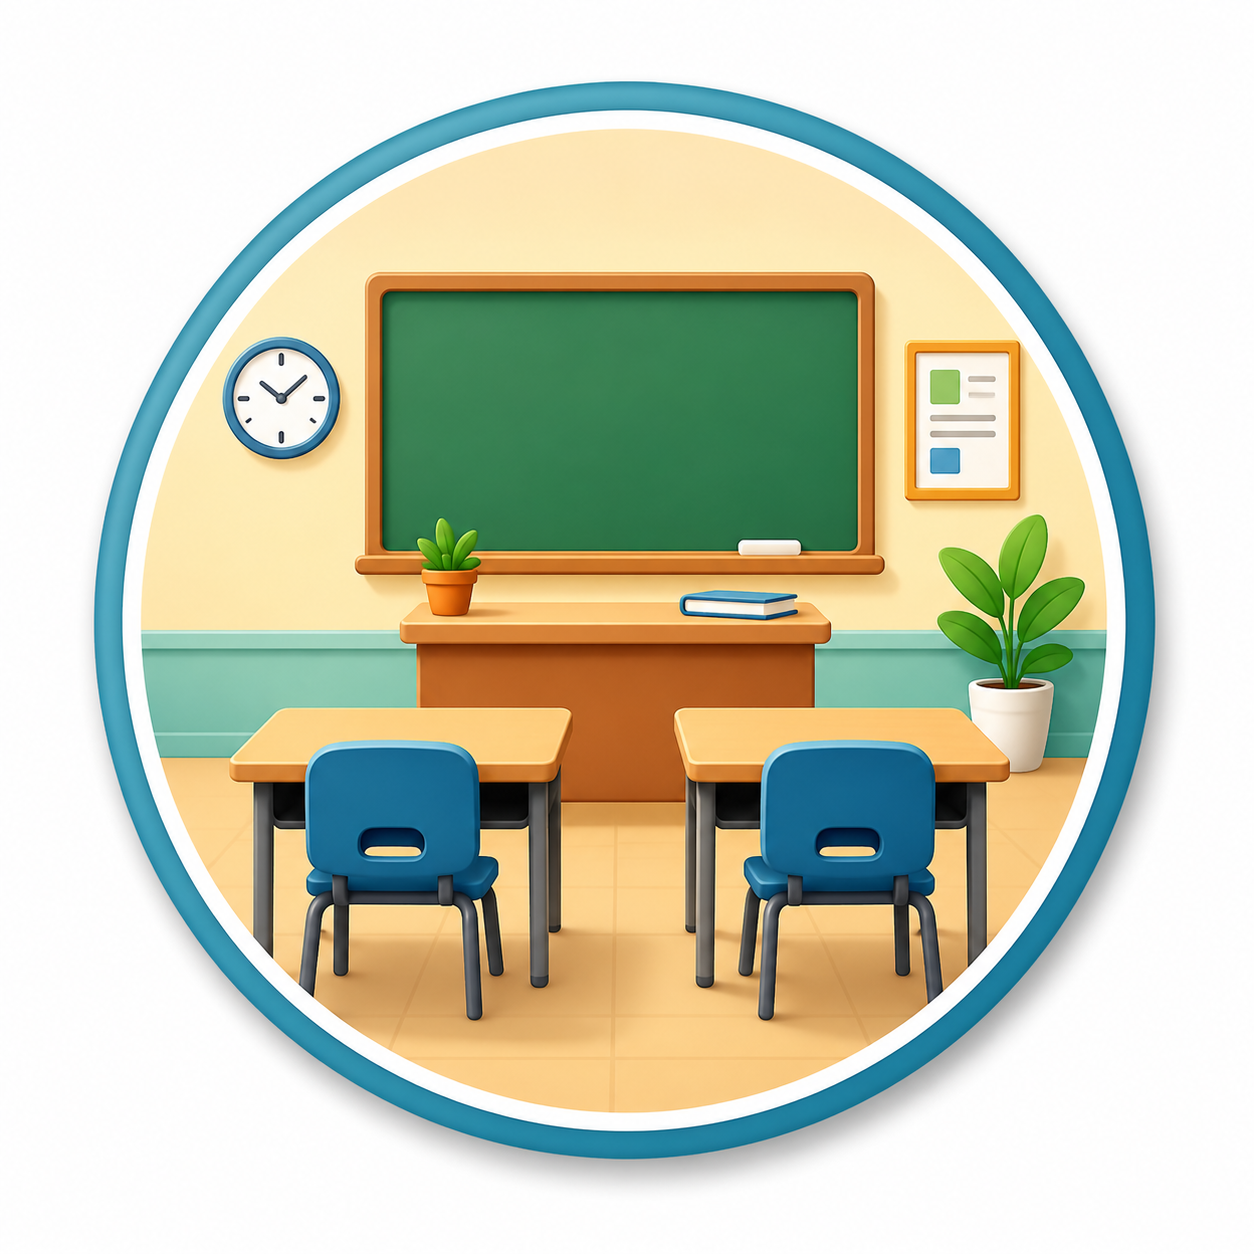
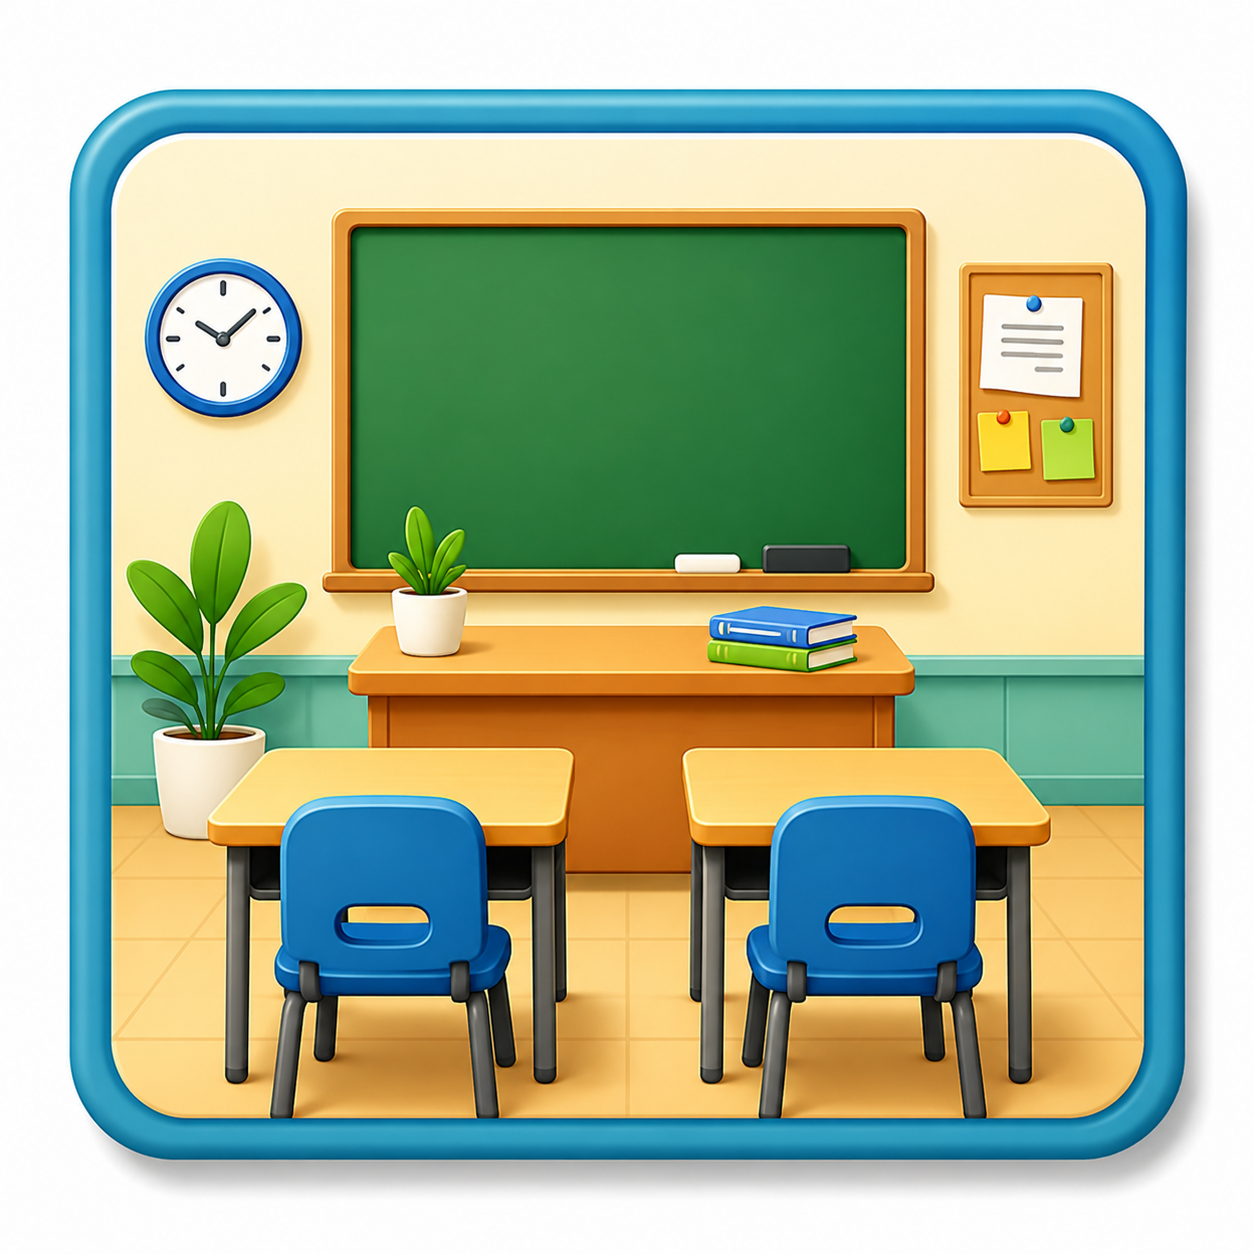
fix(v527): icono de aula actualizado (imagen cuadrada) + esquinas redondeadas en vez de círculo

diff --git a/css/styles.css b/css/styles.css
@@ -411,7 +411,7 @@ body{
 .ccard:hover::before{opacity:1}
 .ccard-icon{font-size:30px;margin-bottom:8px;display:block;transition:transform .25s}
 .ccard:hover .ccard-icon{transform:scale(1.08) rotate(3deg)}
-.ccard-icon img{width:40px;height:40px;object-fit:cover;border-radius:50%;display:block;margin:0 auto}
+.ccard-icon img{width:40px;height:40px;object-fit:cover;border-radius:8px;display:block;margin:0 auto}
 .ccard-title{font-size:13px;font-weight:700;margin-bottom:4px;color:var(--text);line-height:1.25}
 .ccard-desc{font-size:11px;color:var(--muted);line-height:1.35;margin-bottom:6px}
 .ccard-count{position:absolute;top:8px;right:8px;background:linear-gradient(135deg,var(--accent),var(--acc2));color:#fff;font-size:10px;font-weight:800;font-family:var(--mono);padding:3px 7px;border-radius:20px;box-shadow:0 2px 8px rgba(37,99,235,.25)}

diff --git a/sw.js b/sw.js
@@ -7,7 +7,7 @@
 // Para forzar a los clientes a coger version nueva basta con subir VERSION.
 // ═════════════════════════════════════════════════════════
 
-const VERSION = 'v526';
+const VERSION = 'v527';
 const CACHE_SHELL   = 'inventario-fp-shell-' + VERSION;
 const CACHE_RUNTIME = 'inventario-fp-runtime-' + VERSION;
 
